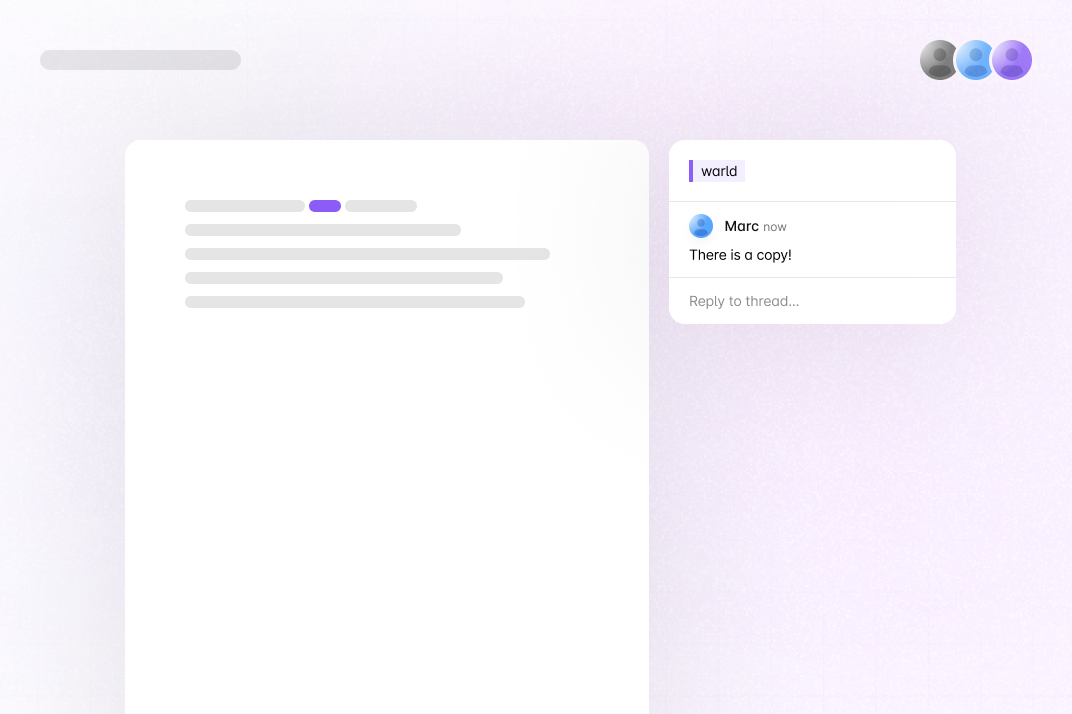
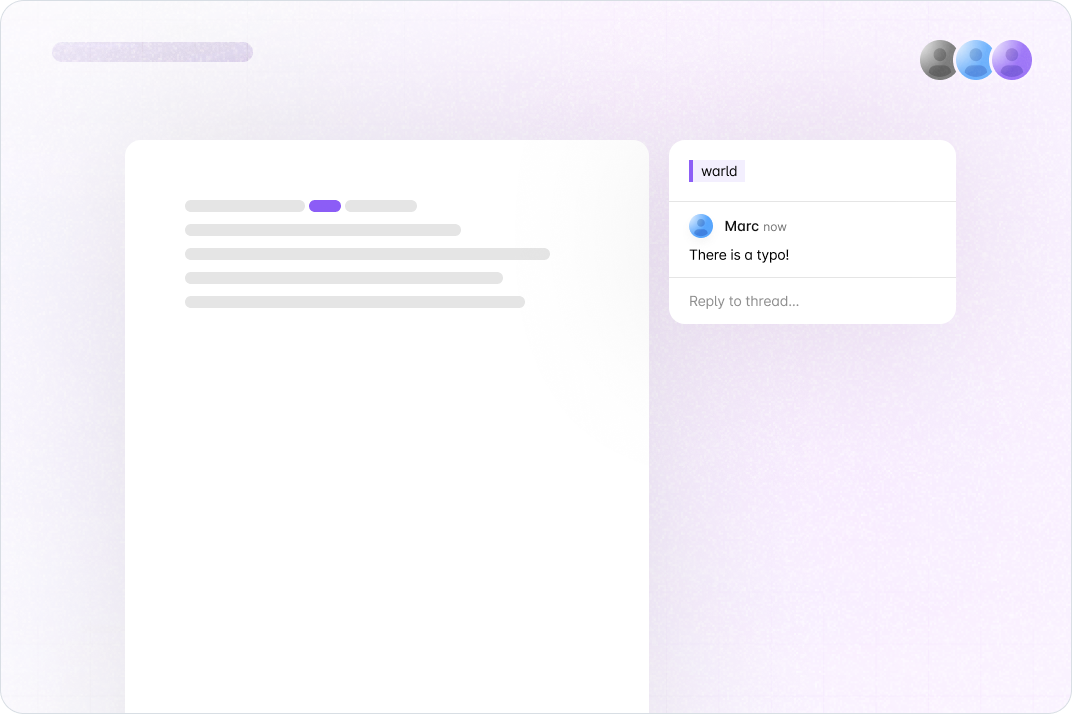
Refine comments examples thumbnails (#1248)

Changed region(s): [[0.1231, 0.0616, 0.2463, 0.0924], [0.708, 0.3389, 0.7388, 0.3697]]

diff --git a/examples/nextjs-comments-tiptap/src/liveblocks.config.ts b/examples/nextjs-comments-tiptap/src/liveblocks.config.ts
@@ -83,7 +83,9 @@ export const {
   client,
   {
     async resolveUsers({ userIds }) {
-      const searchParams = new URLSearchParams({ userIds });
+      const searchParams = new URLSearchParams(
+        userIds.map((userId) => ["userIds", userId])
+      );
       const response = await fetch(`/api/users?${searchParams}`);
 
       if (!response.ok) {

diff --git a/examples/nextjs-comments-video/README.md b/examples/nextjs-comments-video/README.md
@@ -7,7 +7,7 @@
   </a>
 </p>
 
-# Comments Video
+# Video Comments
 
 <p>
   <a href="https://liveblocks.io/examples/collaborative-text-editor/nextjs-comments-video/preview">
@@ -28,7 +28,7 @@ This example shows how to build a video editor with comments using
 Users can place comments at certain times on the video, and also see a summary
 of each thread.
 
-<img src="https://raw.githubusercontent.com/liveblocks/liveblocks/main/.github/assets/examples/comments-video.png" width="536" alt="Comments on video" />
+<img src="https://raw.githubusercontent.com/liveblocks/liveblocks/main/.github/assets/examples/comments-video.png" width="536" alt="Video Comments" />
 
 ## Getting started
 

diff --git a/examples/nextjs-comments-tiptap/README.md b/examples/nextjs-comments-tiptap/README.md
@@ -26,7 +26,7 @@ This example shows how to add comments to a collaborative text editor with
 [Liveblocks](https://liveblocks.io), [Yjs](https://docs.yjs.dev),
 [Tiptap](https://tiptap.dev), and [Next.js](https://nextjs.org/).
 
-<img src="https://raw.githubusercontent.com/liveblocks/liveblocks/main/.github/assets/examples/comments-text-editor.png" width="536" alt="Text editor comments" />
+<img src="https://raw.githubusercontent.com/liveblocks/liveblocks/main/.github/assets/examples/comments-text-editor.png" width="536" alt="Text Editor Comments" />
 
 ## Getting started
 

diff --git a/examples/nextjs-comments-overlay/README.md b/examples/nextjs-comments-overlay/README.md
@@ -22,7 +22,7 @@
 
 This example shows how to display comments overlaid on any website with [Liveblocks](https://liveblocks.io) and [Next.js](https://nextjs.org/).
 
-<img src="https://raw.githubusercontent.com/liveblocks/liveblocks/main/.github/assets/examples/comments-website-overlay.png" width="536" alt="Overlay comments on a website" />
+<img src="https://raw.githubusercontent.com/liveblocks/liveblocks/main/.github/assets/examples/comments-overlay.png" width="536" alt="Overlay Comments" />
 
 ## Getting started
 

diff --git a/CHANGELOG.md b/CHANGELOG.md
@@ -1,5 +1,9 @@
 # v1.4.8
 
+### `create-liveblocks-app`
+
+- Add Comments hooks and options to `--init` command.
+
 ### `@liveblocks/react-comments`
 
 - Improve default styles:
